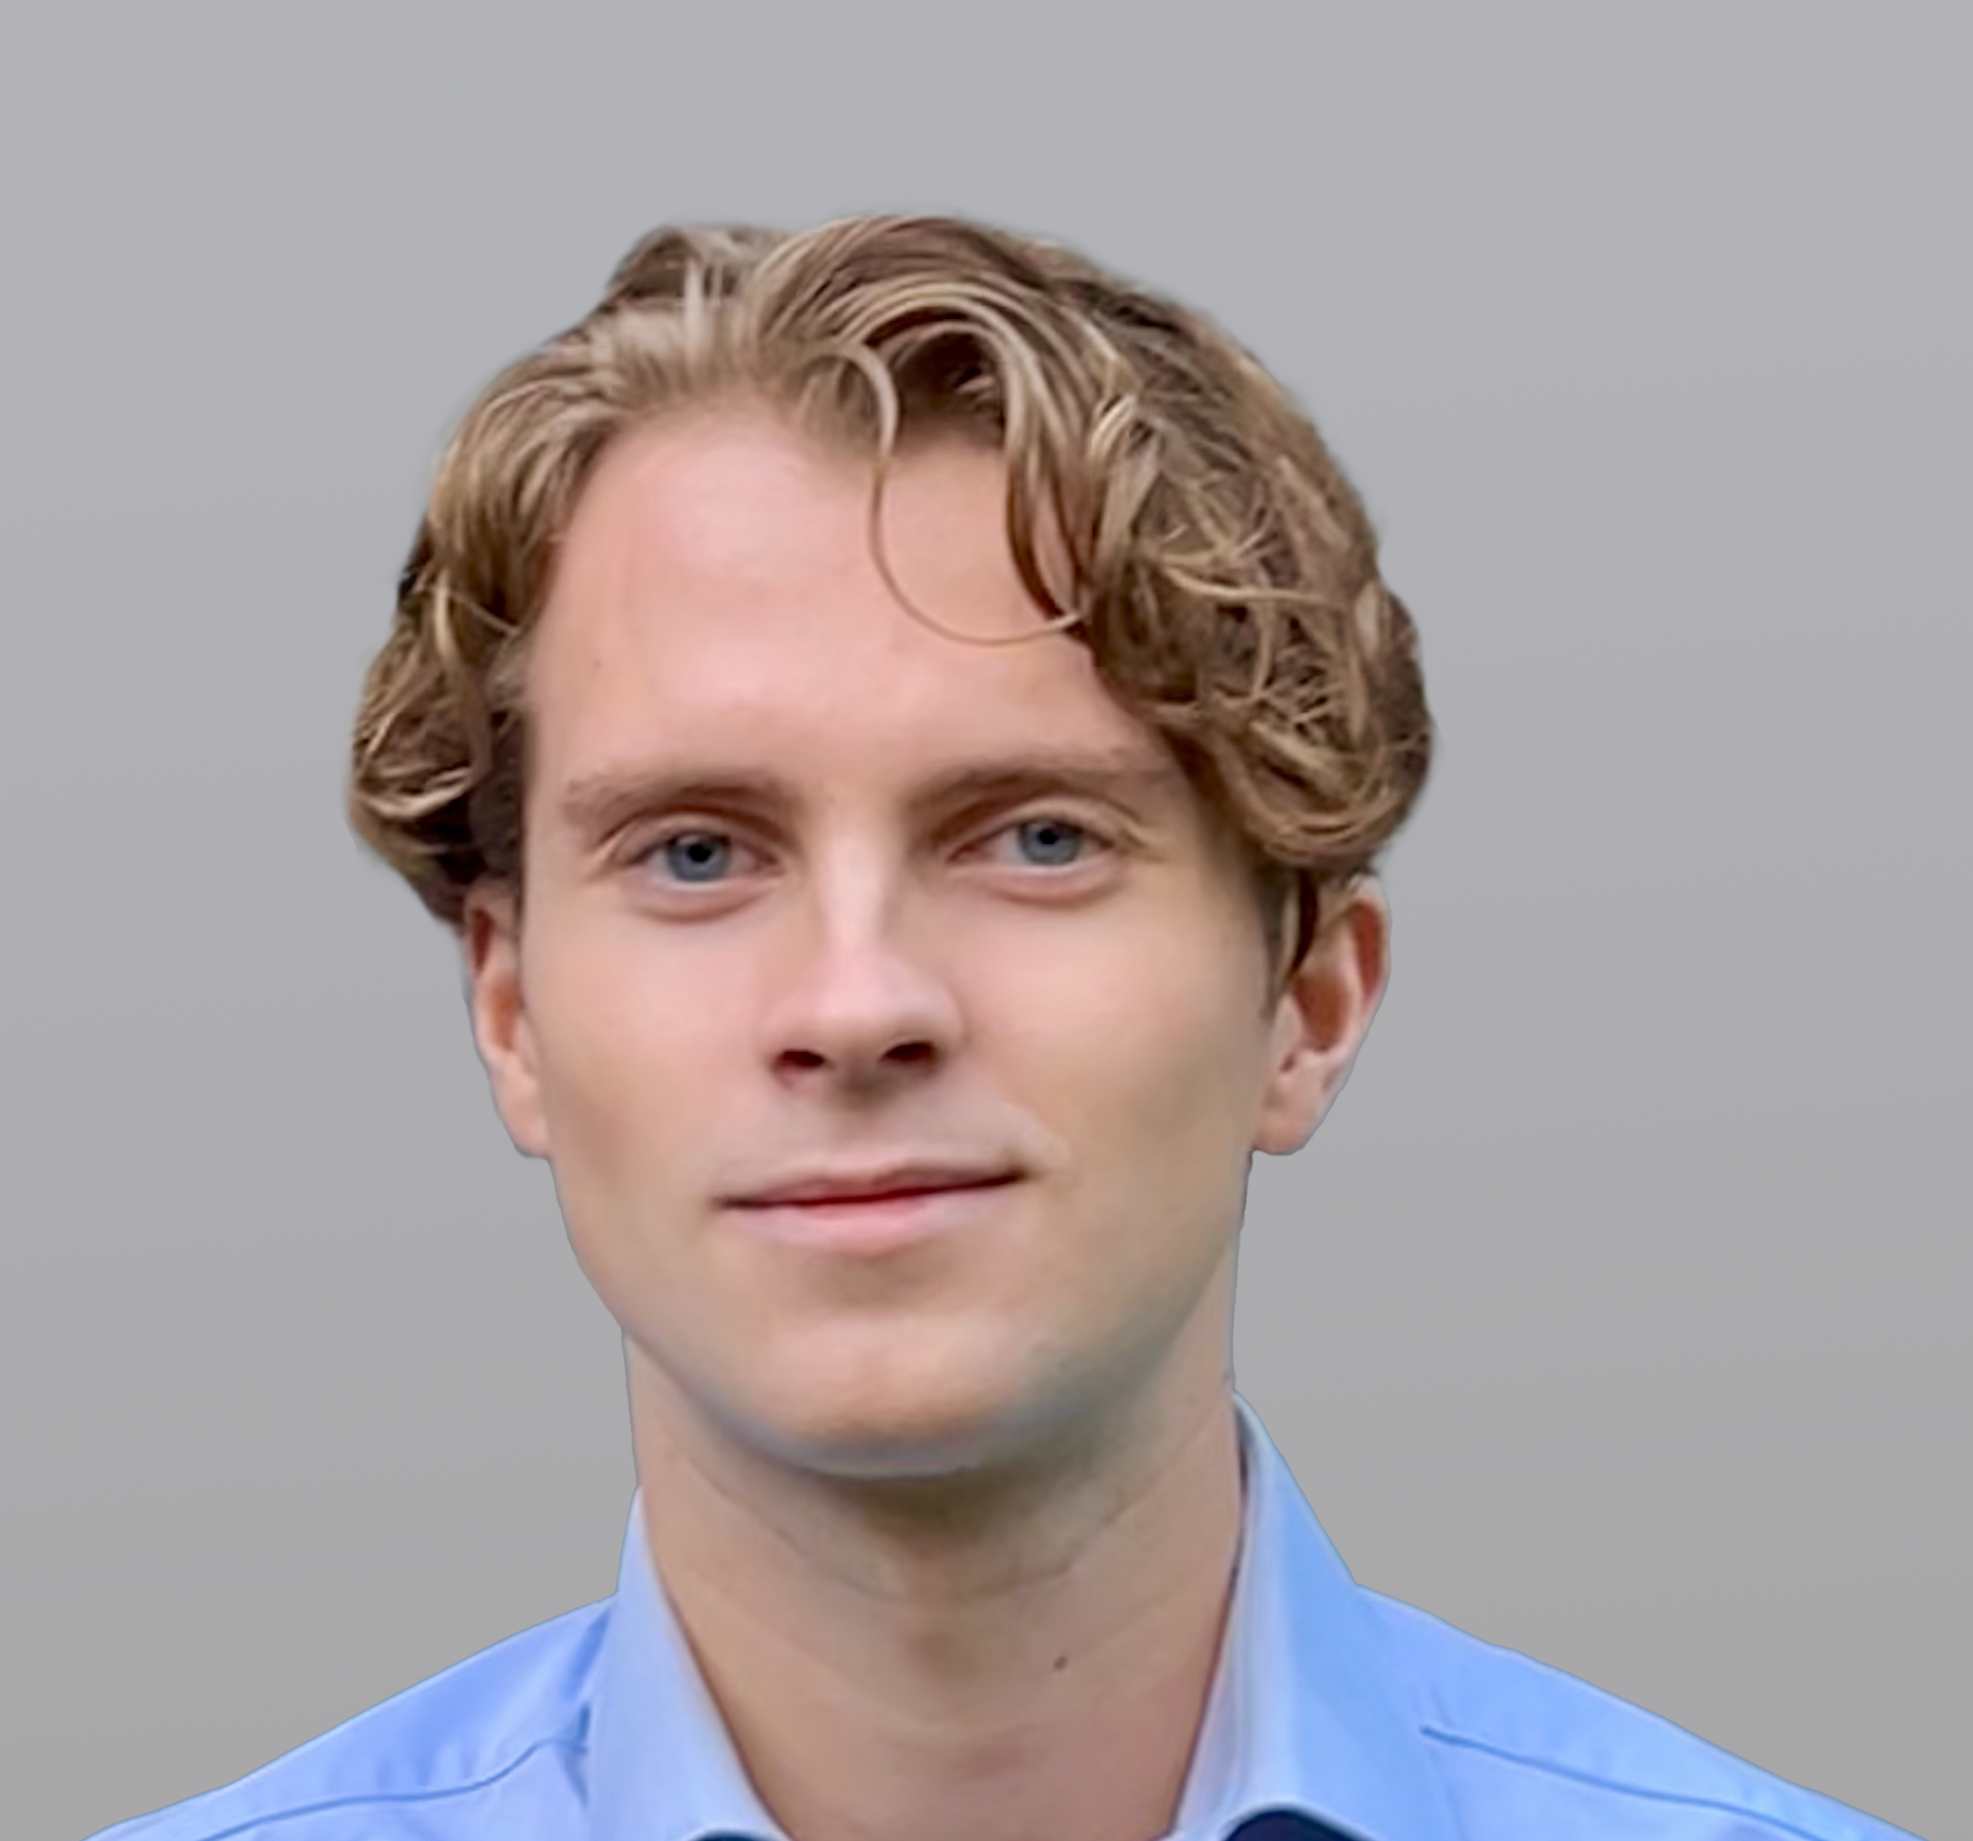
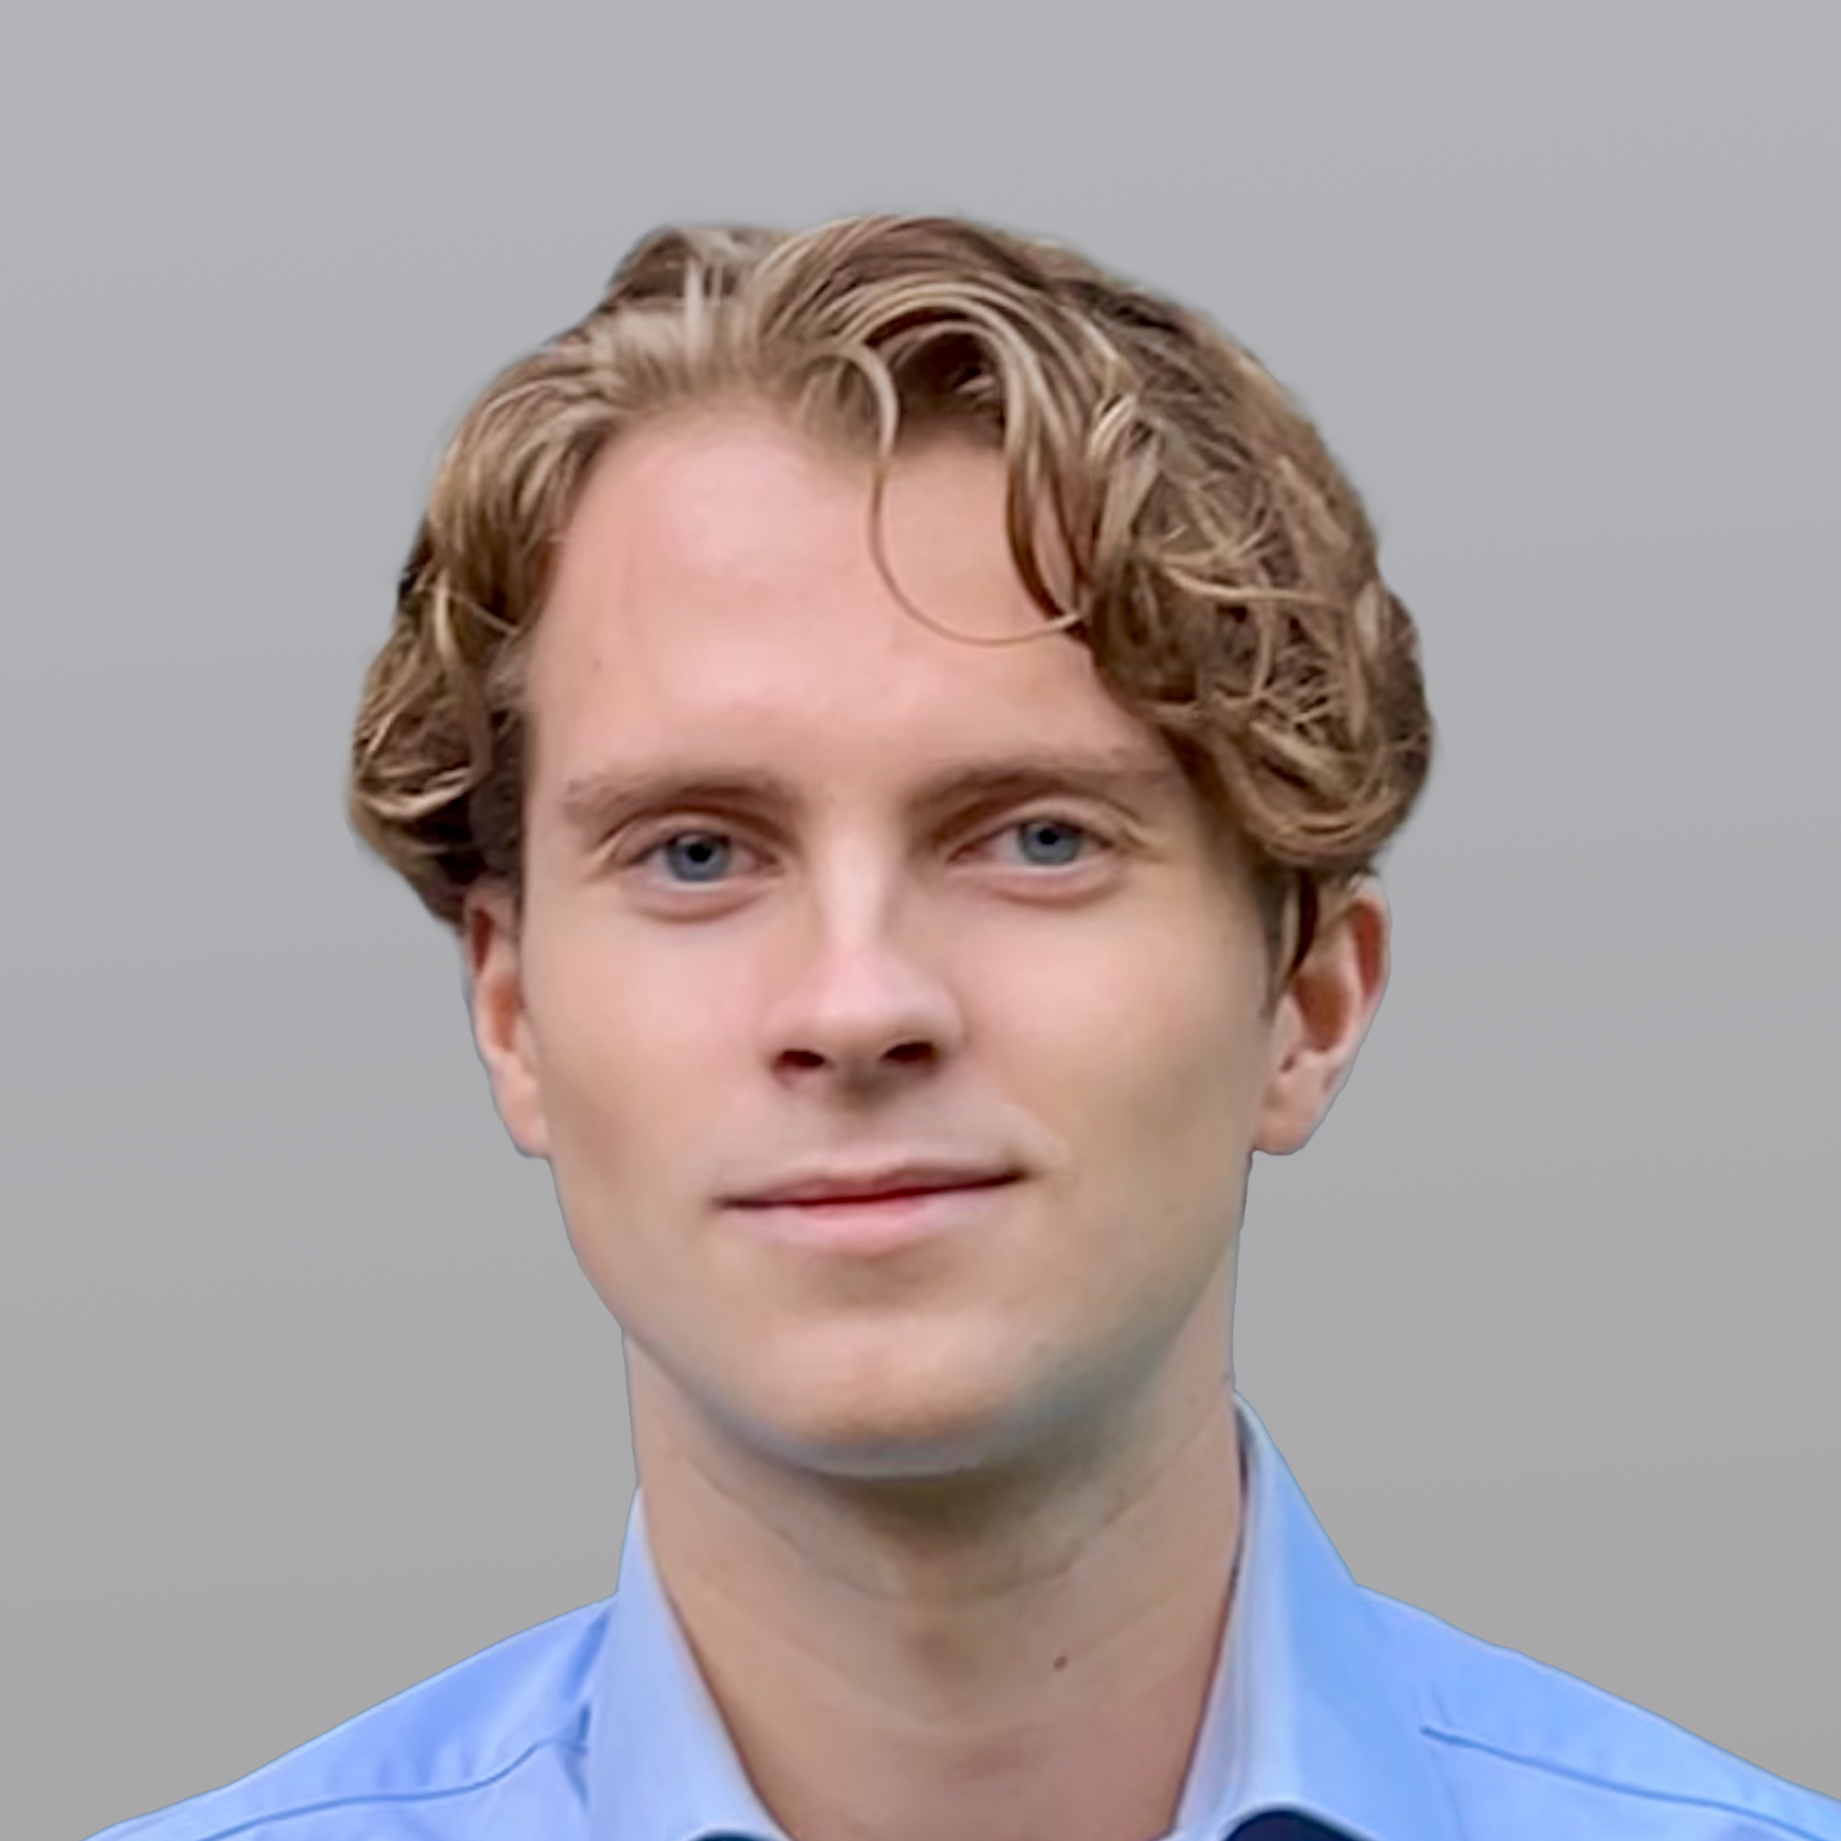
fixed the profile pictures

Changed region(s): [[0.1548, 0.0929, 1.0, 1.0], [0.0619, 0.9288, 0.1858, 1.0], [0.031, 0.9908, 0.0619, 1.0]]

diff --git a/assets/css/main.css b/assets/css/main.css
@@ -1373,8 +1373,9 @@ section {
 }
 
 .team .member img {
-  border-radius: 10px;
+  border-radius: 50%;
   overflow: hidden;
+  width: 75%;
 }
 
 .team .member .member-content {
